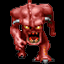
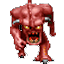
sprites working

diff --git a/src/raycaster/raycaster.c b/src/raycaster/raycaster.c
@@ -33,7 +33,8 @@ static cl_context s_context;
 static cl_command_queue s_queue;
 static cl_int s_err;
 
-static cl_kernel s_fragmentKernel;
+static cl_kernel s_surfaceKernel;
+static cl_kernel s_spritesKernel;
 
 static cl_mem s_frameBuffer;
 static cl_mem s_depthBuffer;
@@ -82,6 +83,38 @@ static inline const char* raycaster_load_kernel(const char* filename)
   return src;
 }
 
+typedef struct {
+    float dist;
+    int index;
+} SpriteSort;
+
+int sprite_cmp(const void* a, const void* b)
+{
+    float d = ((SpriteSort*)b)->dist - ((SpriteSort*)a)->dist;
+    return (d > 0) - (d < 0); // malejąco
+}
+
+static inline void prepareSprites(
+    Player* p,
+    SpriteData* sprites,
+    int num,
+    int* spriteOrder)
+{
+    SpriteSort tmp[120]; // max sprite count
+
+    for (int i = 0; i < num; i++) {
+        float dx = p->x - sprites[i].x;
+        float dy = p->y - sprites[i].y;
+        tmp[i].dist = dx*dx + dy*dy;
+        tmp[i].index = i;
+    }
+
+    qsort(tmp, num, sizeof(SpriteSort), sprite_cmp);
+
+    for (int i = 0; i < num; i++)
+        spriteOrder[i] = tmp[i].index;
+}
+
 void raycaster_init(int width, int height)
 {
   s_screenResolution[0] = width; s_screenResolution[1] = height;
@@ -106,28 +139,46 @@ void raycaster_init(int width, int height)
   s_program = clCreateProgramWithSource(s_context, 1, &kernel_source, NULL, NULL);  
   clBuildProgram(s_program, 1, &s_device, NULL, NULL, NULL);
 
-  s_fragmentKernel = clCreateKernel(s_program, "fragment_kernel", NULL);
+  s_surfaceKernel = clCreateKernel(s_program, "surface_kernel", NULL);
+  s_spritesKernel = clCreateKernel(s_program, "sprites_kernel", NULL);
 
   s_frameBuffer = clCreateBuffer(s_context, CL_MEM_READ_WRITE, sizeof(Color)*width*height, NULL, NULL);
   s_playerBuffer = clCreateBuffer(s_context, CL_MEM_READ_ONLY | CL_MEM_COPY_HOST_PTR, sizeof(Player), &s_Player, NULL);
   s_mapBuffer = clCreateBuffer(s_context, CL_MEM_READ_ONLY | CL_MEM_COPY_HOST_PTR, sizeof(map), &map, NULL);
   s_depthBuffer = clCreateBuffer(s_context,CL_MEM_READ_WRITE, sizeof(float)*width,NULL,NULL);
 
-  clSetKernelArg(s_fragmentKernel, 0, sizeof(cl_mem), &s_frameBuffer);
-  clSetKernelArg(s_fragmentKernel, 1, sizeof(int), &width);
-  clSetKernelArg(s_fragmentKernel, 2, sizeof(int), &height);
-  clSetKernelArg(s_fragmentKernel, 3, sizeof(cl_mem), &s_playerBuffer);
-  clSetKernelArg(s_fragmentKernel, 4, sizeof(cl_mem), &s_mapBuffer);
+  clSetKernelArg(s_surfaceKernel, 0, sizeof(cl_mem), &s_frameBuffer);
+  clSetKernelArg(s_surfaceKernel, 1, sizeof(cl_mem), &s_depthBuffer);
+  clSetKernelArg(s_surfaceKernel, 2, sizeof(int), &width);
+  clSetKernelArg(s_surfaceKernel, 3, sizeof(int), &height);
+  clSetKernelArg(s_surfaceKernel, 4, sizeof(cl_mem), &s_playerBuffer);
+  clSetKernelArg(s_surfaceKernel, 5, sizeof(cl_mem), &s_mapBuffer);
   int map_size = 11;
-  clSetKernelArg(s_fragmentKernel, 5, sizeof(int), &map_size);
-  clSetKernelArg(s_fragmentKernel, 8, sizeof(cl_mem), &s_depthBuffer);
+  clSetKernelArg(s_surfaceKernel, 6, sizeof(int), &map_size);
+
+  clSetKernelArg(s_spritesKernel, 0, sizeof(cl_mem), &s_frameBuffer);
+  clSetKernelArg(s_spritesKernel, 1, sizeof(cl_mem), &s_depthBuffer);
+  clSetKernelArg(s_spritesKernel, 2, sizeof(int), &width);
+  clSetKernelArg(s_spritesKernel, 3, sizeof(int), &height);
+  clSetKernelArg(s_spritesKernel, 4, sizeof(cl_mem), &s_playerBuffer);
 
   s_pixelBuffer = (Color*)malloc(sizeof(Color)*s_screenResolution[0]*s_screenResolution[1]);
 }
 
+static size_t s_numSprites;
+static int s_spriteOrder[120];
+static SpriteData s_spritesData[120]; 
+
 void raycaster_draw()
 {
-  clEnqueueNDRangeKernel(s_queue, s_fragmentKernel, 1, NULL, &s_screenResolution[0], NULL, 0, NULL, NULL);
+  prepareSprites(&s_Player, s_spritesData, s_numSprites, s_spriteOrder);
+
+  clEnqueueWriteBuffer(s_queue,s_spriteOrderBuffer,CL_TRUE,0,s_numSprites * sizeof(int),s_spriteOrder,0, NULL, NULL);
+
+  clEnqueueNDRangeKernel(s_queue, s_surfaceKernel, 1, NULL, &s_screenResolution[0], NULL, 0, NULL, NULL);
+
+  clEnqueueNDRangeKernel(s_queue, s_spritesKernel, 1, NULL, &s_screenResolution[0], NULL, 0, NULL, NULL);
+
   clFinish(s_queue);
 
   clEnqueueReadBuffer(s_queue, s_frameBuffer, CL_TRUE, 0, sizeof(Color)*s_screenResolution[0]*s_screenResolution[1], s_pixelBuffer, 0, NULL, NULL);
@@ -150,7 +201,7 @@ void raycaster_close()
   clReleaseMemObject(s_textureBuffer);
   clReleaseMemObject(s_spritesDataBuffer);
 
-  clReleaseKernel(s_fragmentKernel);
+  clReleaseKernel(s_surfaceKernel);
   clReleaseProgram(s_program);
   clReleaseCommandQueue(s_queue);
   clReleaseContext(s_context);
@@ -159,7 +210,9 @@ void raycaster_close()
   CloseWindow();
 }
 
-void raycaster_load_assets(const char* textures[],size_t textures_count,const char* sprites[],size_t sprites_count,SpriteData sprites_data[],size_t sprites_data_count)
+void raycaster_load_assets(const char* textures[],size_t textures_count,
+                           const char* sprites[],size_t sprites_count,
+                           SpriteData sprites_data[],size_t sprites_data_count)
 {
   for (size_t i = 0; i < textures_count; ++i)
   {
@@ -231,23 +284,23 @@ void raycaster_load_assets(const char* textures[],size_t textures_count,const ch
       NULL);
   s_spriteOrderBuffer = clCreateBuffer(
       s_context,
-      CL_MEM_READ_WRITE,
-      sprites_count * sizeof(int),
-      NULL,
-      NULL);
-  s_spriteDistanceBuffer = clCreateBuffer(
-      s_context,
-      CL_MEM_READ_WRITE,
-      sprites_count * sizeof(float),
+      CL_MEM_READ_ONLY,
+      120 * sizeof(int),
       NULL,
       NULL);
 
-  clSetKernelArg(s_fragmentKernel, 6, sizeof(cl_mem), &s_textureBuffer);
-  clSetKernelArg(s_fragmentKernel, 7, sizeof(cl_mem), &s_spritesBuffer);
-  clSetKernelArg(s_fragmentKernel, 9, sizeof(cl_mem), &s_spriteOrderBuffer);
-  clSetKernelArg(s_fragmentKernel, 10, sizeof(cl_mem), &s_spriteDistanceBuffer);
-  clSetKernelArg(s_fragmentKernel, 11, sizeof(int), &sprites_count);
-  clSetKernelArg(s_fragmentKernel, 12, sizeof(cl_mem), &s_spritesDataBuffer);
+  s_numSprites = sprites_count;
+
+  memcpy(s_spritesData, sprites_data, sprites_count * sizeof(SpriteData));
+
+  clSetKernelArg(s_surfaceKernel, 7, sizeof(cl_mem), &s_textureBuffer);
+  clSetKernelArg(s_surfaceKernel, 8, sizeof(cl_mem), &s_spritesBuffer);
+
+  clSetKernelArg(s_spritesKernel, 5, sizeof(cl_mem), &s_spritesDataBuffer);
+  clSetKernelArg(s_spritesKernel, 6, sizeof(cl_mem), &s_spriteOrderBuffer);
+  clSetKernelArg(s_spritesKernel, 7, sizeof(int), &sprites_count);
+  clSetKernelArg(s_spritesKernel, 8, sizeof(cl_mem), &s_textureBuffer);
+  clSetKernelArg(s_spritesKernel, 9, sizeof(cl_mem), &s_spritesBuffer);
 }
 
 static int tile_size = 20;

diff --git a/src/raycaster/raycaster.h b/src/raycaster/raycaster.h
@@ -11,16 +11,16 @@ typedef enum {
 } Movement;
 
 typedef struct SpriteData {
-  double x;
-  double y;
-  double vx;
-  double vy;
-  double dir_x;
-  double dir_y;
-  double is_projectile;
-  double is_ui;
-  double is_destroyed;
-  float texture;
+    float x;
+    float y;
+    float vx;
+    float vy;
+    float dir_x;
+    float dir_y;
+    int is_projectile;
+    int is_ui;
+    int is_destroyed;
+    int texture;
 } SpriteData;
 
 void raycaster_init(int width, int height);

diff --git a/src/main.c b/src/main.c
@@ -46,7 +46,7 @@ const char* sprites[] = {
 };
 
 SpriteData sprites_data[] = {
-  {6.0, 8.5, 0, 0, 0, 0,0, 0, 0, 10},
+  {3.0, 3.0, 0, 0, 0, 0,0, 0, 0, 8},
   {3.5, 6.5, 0, 0, 0, 0,0, 0, 0, 10},
   {5.5, 5.5, 0, 0, 0, 0,0, 0, 0, 9},
   {7.5, 1.5, 0, 0, 0, 0,0, 0, 0, 8},
